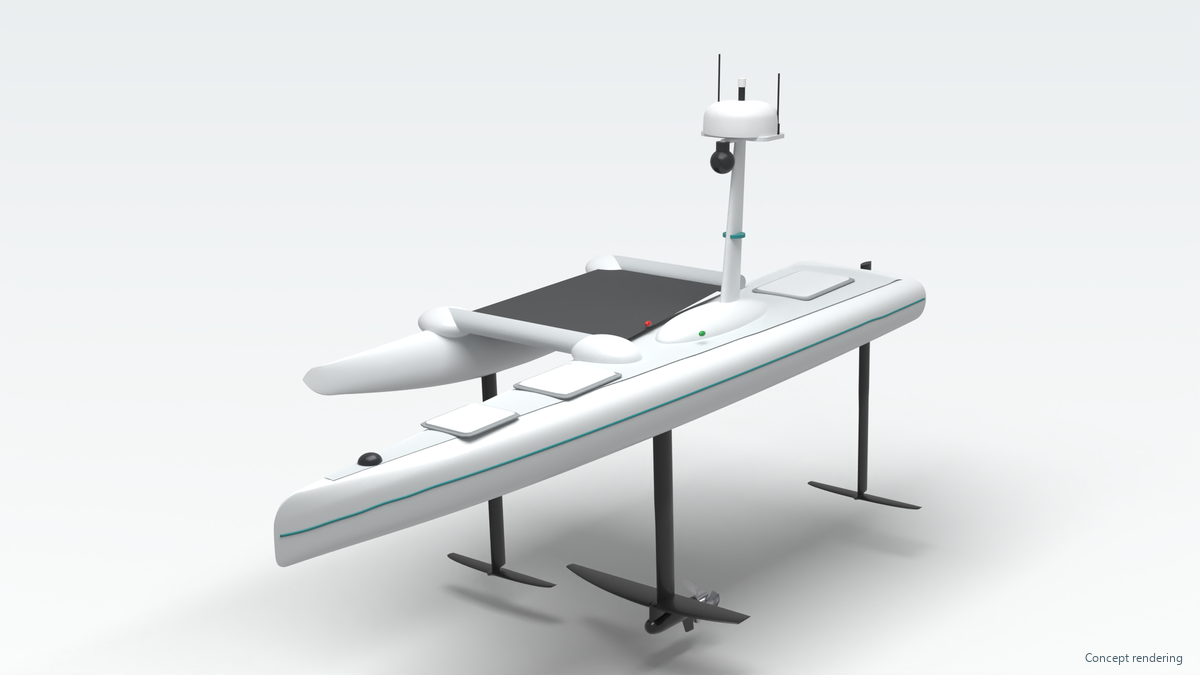
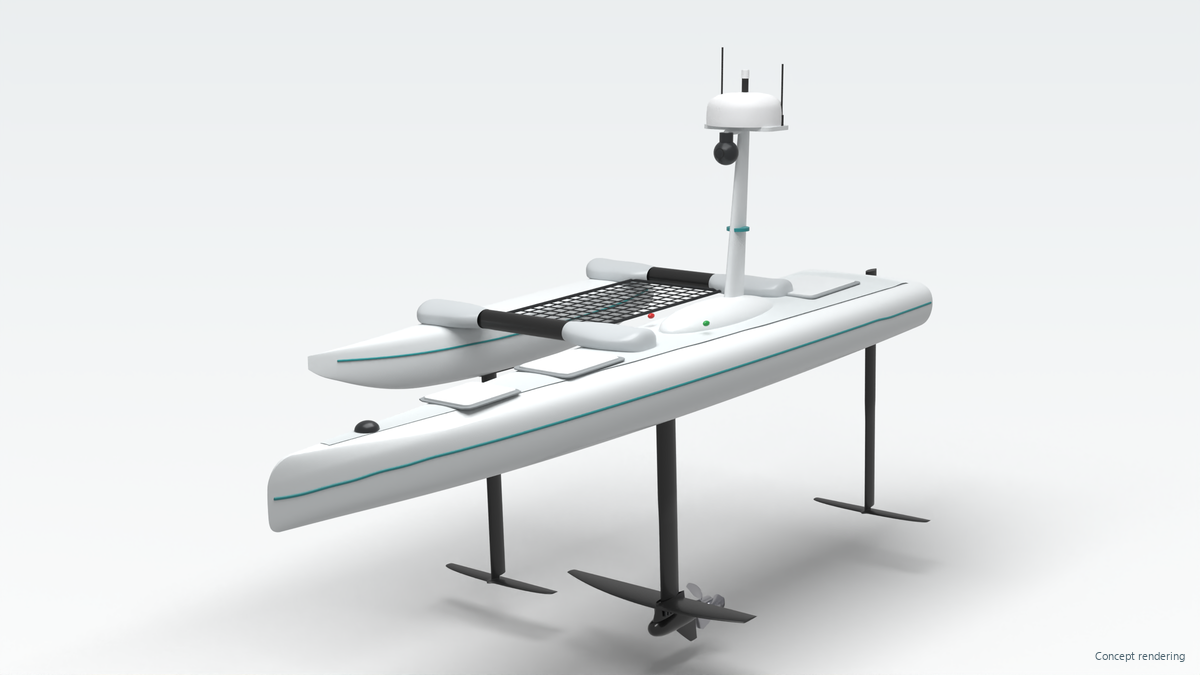
Proa concept render v2 (moulded ama, carbon akas, gearcase detail)

diff --git a/index.html b/index.html
@@ -112,7 +112,7 @@
 
 <section id="wg-concept">
  <div class="sh"><div class="lb">Lead concept</div><div><h2>Hydrofoil USV</h2><p>A 20 ft class unmanned hydrofoil craft with a proa hull: one main hull and one outrigger. It's designed to fly above the chop for a steadier, more efficient ride. Target missions: port and harbor security, maritime domain awareness, logistics and ocean observing.</p></div></div>
- <figure style="margin:0 0 28px;background:#f4f6f6;border:1px solid var(--rule)"><img src="proa-hero-1200.png" srcset="proa-hero-1200.png 1200w, proa-hero-2400.jpg 2400w" sizes="(max-width:1120px) 100vw, 1120px" width="1200" height="675" loading="lazy" alt="Concept rendering of the hydrofoil USV: white main hull and outrigger, three dark foils, a sensor mast and an outboard drive pod" style="display:block;width:100%;height:auto"></figure>
+ <figure style="margin:0 0 28px;background:#f4f6f6;border:1px solid var(--rule)"><img src="proa-hero-1200.png" srcset="proa-hero-1200.png 1200w, proa-hero-2400.jpg 2400w" sizes="(max-width:1120px) 100vw, 1120px" width="1200" height="675" loading="lazy" alt="Concept rendering of the hydrofoil USV: white main hull and outrigger joined by carbon beams and a net deck, three dark foils, a sensor mast and an outboard-style drive pod" style="display:block;width:100%;height:auto"></figure>
  <div class="lb" style="margin-bottom:12px">Design targets</div>
  <div class="stats">
   <div><b>20 ft</b><span>class, single main hull</span></div>
